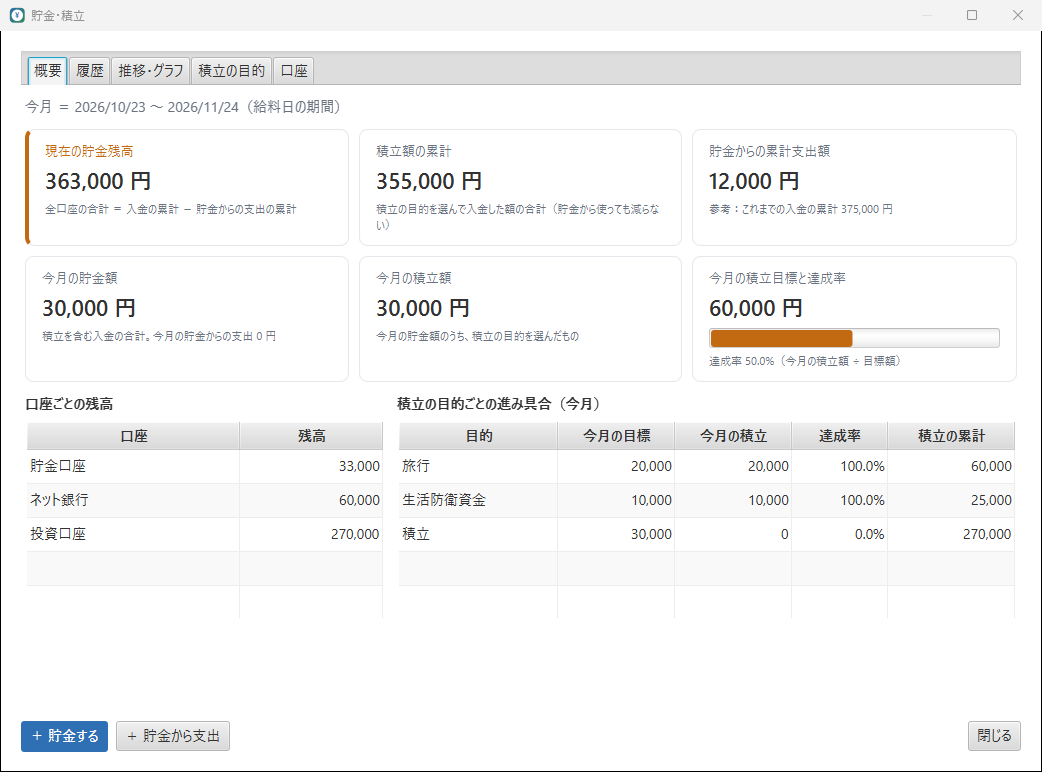
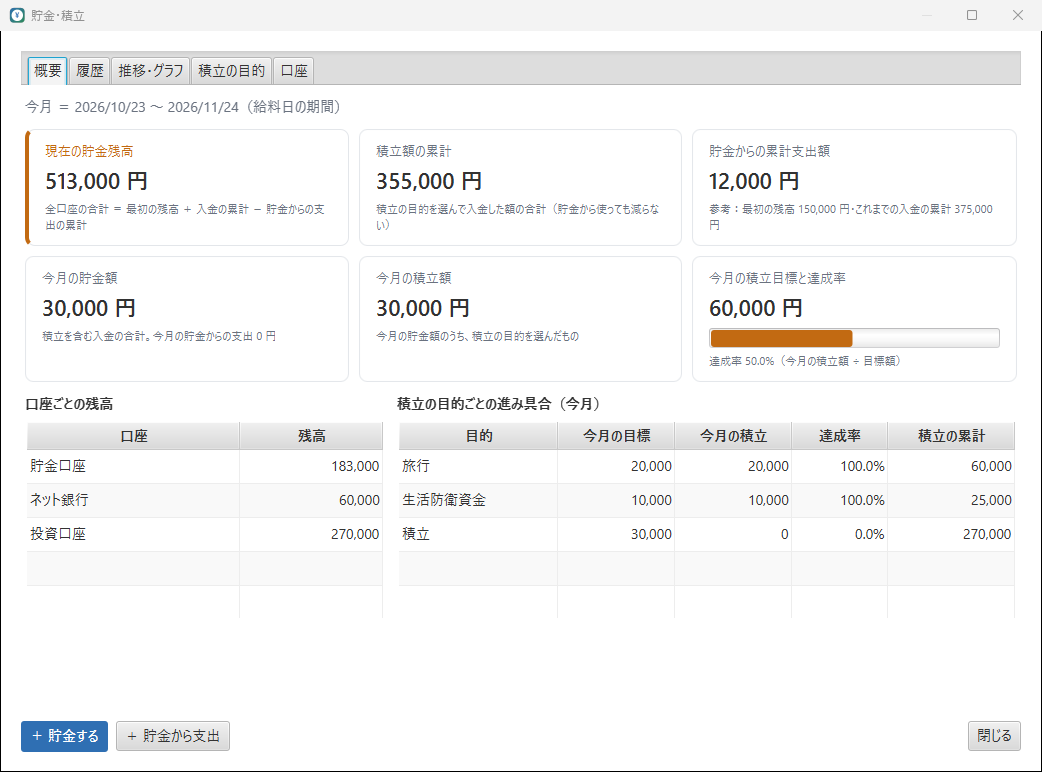
最初の残高を入れたデモデータでスクリーンショットを撮り直し、口座タブの画像を使い方に追加

diff --git a/guide.html b/guide.html
@@ -16,7 +16,7 @@
   <link rel="preconnect" href="https://fonts.googleapis.com">
   <link rel="preconnect" href="https://fonts.gstatic.com" crossorigin>
   <link href="https://fonts.googleapis.com/css2?family=Noto+Sans+JP:wght@400;500;700&display=swap" rel="stylesheet">
-  <link rel="stylesheet" href="assets/css/style.css?v=20261024d">
+  <link rel="stylesheet" href="assets/css/style.css?v=20261024e">
 </head>
 <body>
   <a class="skip-link" href="#main">本文へ移動</a>
@@ -231,6 +231,10 @@
             <li><strong>貯金から支出</strong> … 支出の入力で「支払元」に貯金口座を選びます。その口座の残高が減り、家計の残額は減りません。口座の残高を超える金額は登録できません。明細一覧では区分が「貯金から支出」になります。</li>
             <li><strong>最初の残高</strong> … アプリを使い始める前から口座にあったお金です。「口座」タブで口座を選び、「最初の残高（円）」に金額を入れて「設定」を押します。貯金残高に足されますが、家計の残額・今月の貯金額・入金の累計・積立には含めません。最初の残高の分も、貯金から支出に使えます。</li>
           </ul>
+          <figure>
+            <img src="assets/img/screens/savings-accounts.png" width="1042" height="500" loading="lazy" alt="貯金・積立の画面の「口座」タブ。貯金口座を選び、最初の残高に 150,000 円を設定している">
+            <figcaption>「口座」タブで最初の残高を設定する</figcaption>
+          </figure>
           <h3>集計のきまり</h3>
           <div class="table-wrap">
             <table>
@@ -395,7 +399,7 @@
     </div>
   </footer>
 
-  <script src="assets/js/site-config.js?v=20261024d"></script>
-  <script src="assets/js/main.js?v=20261024d"></script>
+  <script src="assets/js/site-config.js?v=20261024e"></script>
+  <script src="assets/js/main.js?v=20261024e"></script>
 </body>
 </html>

diff --git a/index.html b/index.html
@@ -18,7 +18,7 @@
   <link rel="preconnect" href="https://fonts.googleapis.com">
   <link rel="preconnect" href="https://fonts.gstatic.com" crossorigin>
   <link href="https://fonts.googleapis.com/css2?family=Noto+Sans+JP:wght@400;500;700&display=swap" rel="stylesheet">
-  <link rel="stylesheet" href="assets/css/style.css?v=20261024d">
+  <link rel="stylesheet" href="assets/css/style.css?v=20261024e">
 </head>
 <body>
   <a class="skip-link" href="#main">本文へ移動</a>
@@ -378,7 +378,7 @@
     <img src="" alt="">
   </dialog>
 
-  <script src="assets/js/site-config.js?v=20261024d"></script>
-  <script src="assets/js/main.js?v=20261024d"></script>
+  <script src="assets/js/site-config.js?v=20261024e"></script>
+  <script src="assets/js/main.js?v=20261024e"></script>
 </body>
 </html>

diff --git a/404.html b/404.html
@@ -9,7 +9,7 @@
   <link rel="preconnect" href="https://fonts.googleapis.com">
   <link rel="preconnect" href="https://fonts.gstatic.com" crossorigin>
   <link href="https://fonts.googleapis.com/css2?family=Noto+Sans+JP:wght@400;500;700&display=swap" rel="stylesheet">
-  <link rel="stylesheet" href="assets/css/style.css?v=20261024d">
+  <link rel="stylesheet" href="assets/css/style.css?v=20261024e">
 </head>
 <body>
   <header class="site-header">

diff --git a/tools/make_demo_db.py b/tools/make_demo_db.py
@@ -2,10 +2,11 @@
 スクリーンショット撮影用のデモデータ（架空）を作る。
 
 使い方:
-  python make_demo_db.py <アプリのソースの V1__init.sql> <出力する .db> [<V2__savings.sql> [<V3__merge_investment.sql> [<V4__point_payment.sql>]]]
+  python make_demo_db.py <アプリのソースの V1__init.sql> <出力する .db> [<V2__savings.sql> [<V3__merge_investment.sql> [<V4__point_payment.sql> [<V5__savings_opening_balance.sql>]]]]
   V2 を指定すると、貯金・積立のデータ（口座・積立の目的・入金・貯金からの支出）も入れる。
   V3 を指定すると、投資・積立の明細と固定費が「投資口座」への積立に移る（アプリの更新と同じ処理）。
   V4 を指定すると、ポイント払いの明細も入れる。
+  V5 を指定すると、貯金口座に最初の残高（アプリを使い始める前からあったお金）を入れる。
 アプリは -PkakeiboDb=<出力した .db> を付けて起動する（本番のデータには触れない）。
 """
 import sqlite3
@@ -16,6 +17,7 @@ schema, out = sys.argv[1], sys.argv[2]
 savings_schema = sys.argv[3] if len(sys.argv) > 3 else None
 merge_schema = sys.argv[4] if len(sys.argv) > 4 else None
 points_schema = sys.argv[5] if len(sys.argv) > 5 else None
+opening_schema = sys.argv[6] if len(sys.argv) > 6 else None
 db = sqlite3.connect(out)
 db.executescript(open(schema, encoding="utf-8").read())
 now = "2026-10-20T10:00:00"
@@ -124,5 +126,10 @@ if points_schema:
         db.execute("INSERT INTO entry(entry_type, is_fixed, entry_date, title, amount, category_id, paid_with_points,"
                    " created_at, updated_at) VALUES ('EXPENSE', 0, ?, ?, ?, ?, 1, ?, ?)",
                    (d, title, amount, cat("EXPENSE", category), now, now))
+
+if opening_schema:
+    db.executescript(open(opening_schema, encoding="utf-8").read())
+    db.execute("INSERT INTO schema_version VALUES (5, '貯金口座の最初の残高', ?)", (now,))
+    db.execute("UPDATE savings_account SET opening_balance = 150000 WHERE name = '貯金口座'")
 db.commit()
 print("entries:", db.execute("SELECT COUNT(*) FROM entry").fetchone()[0])
